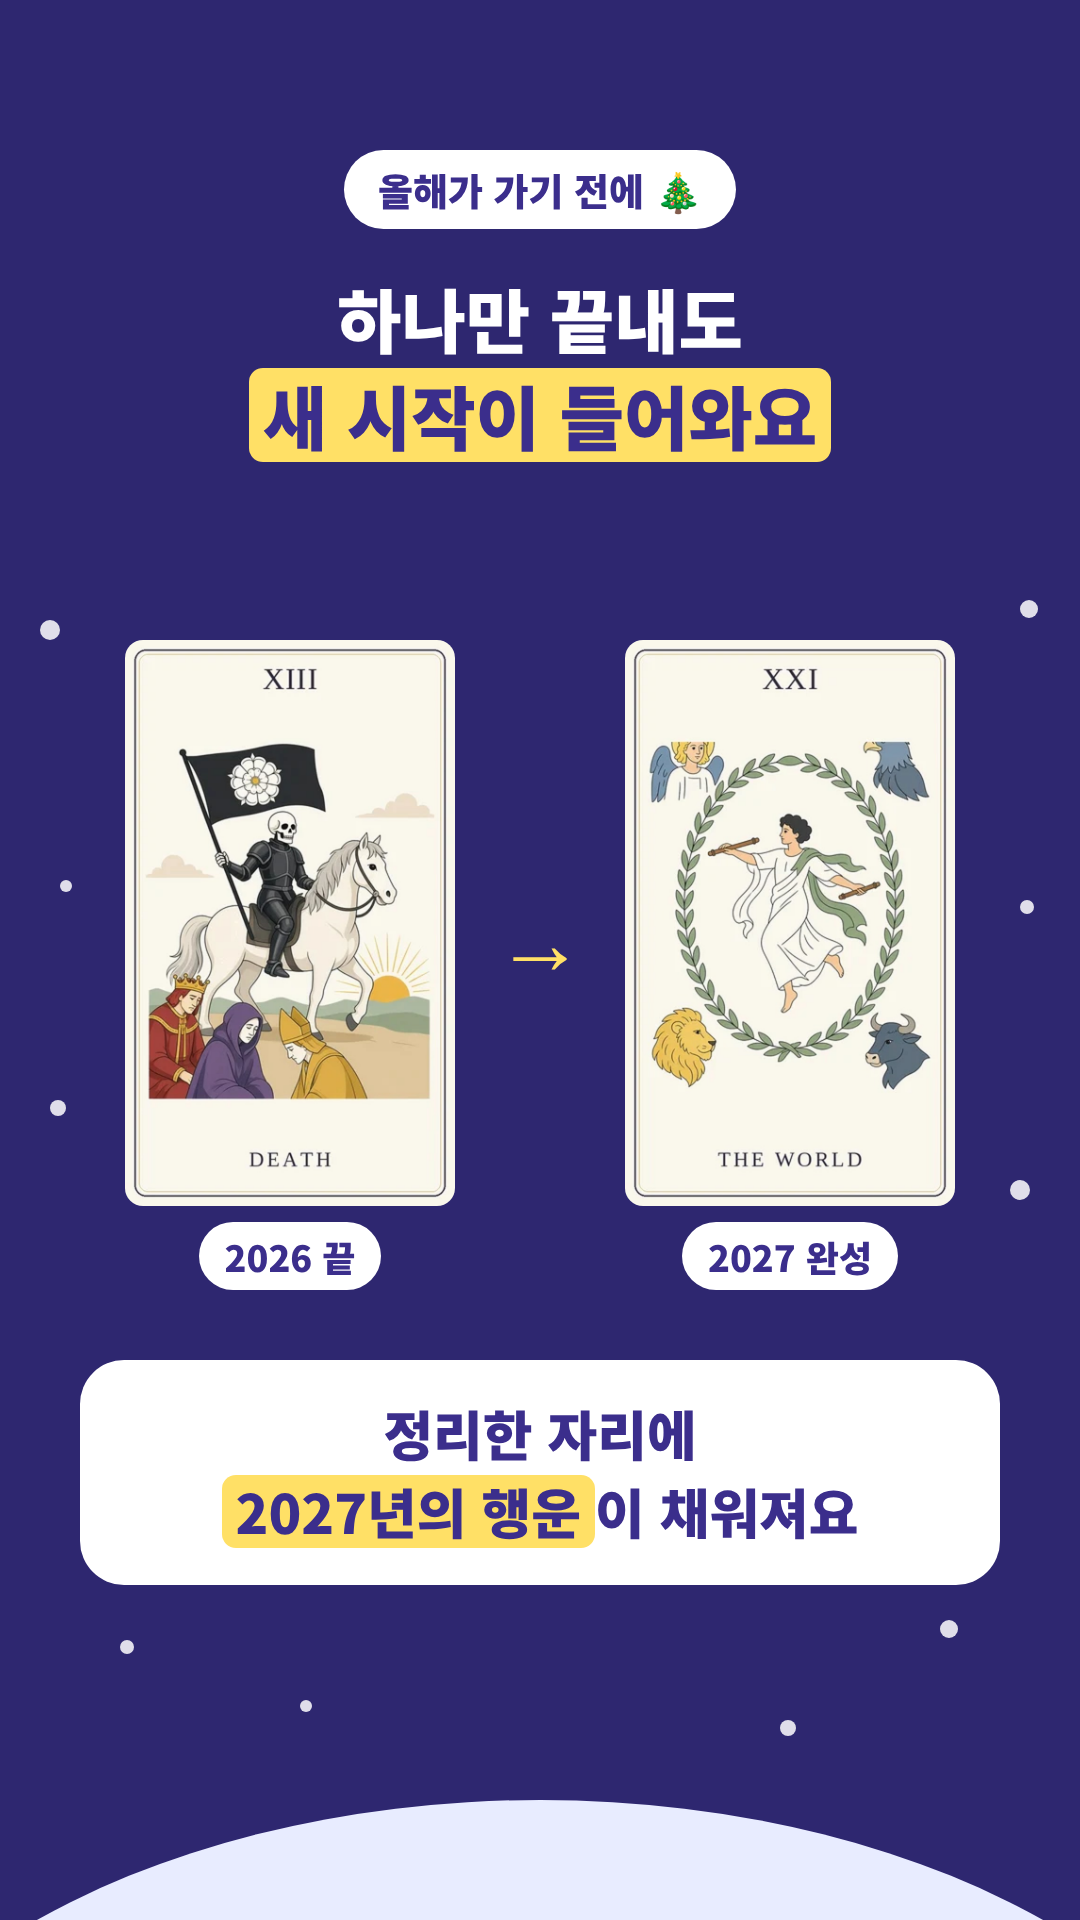
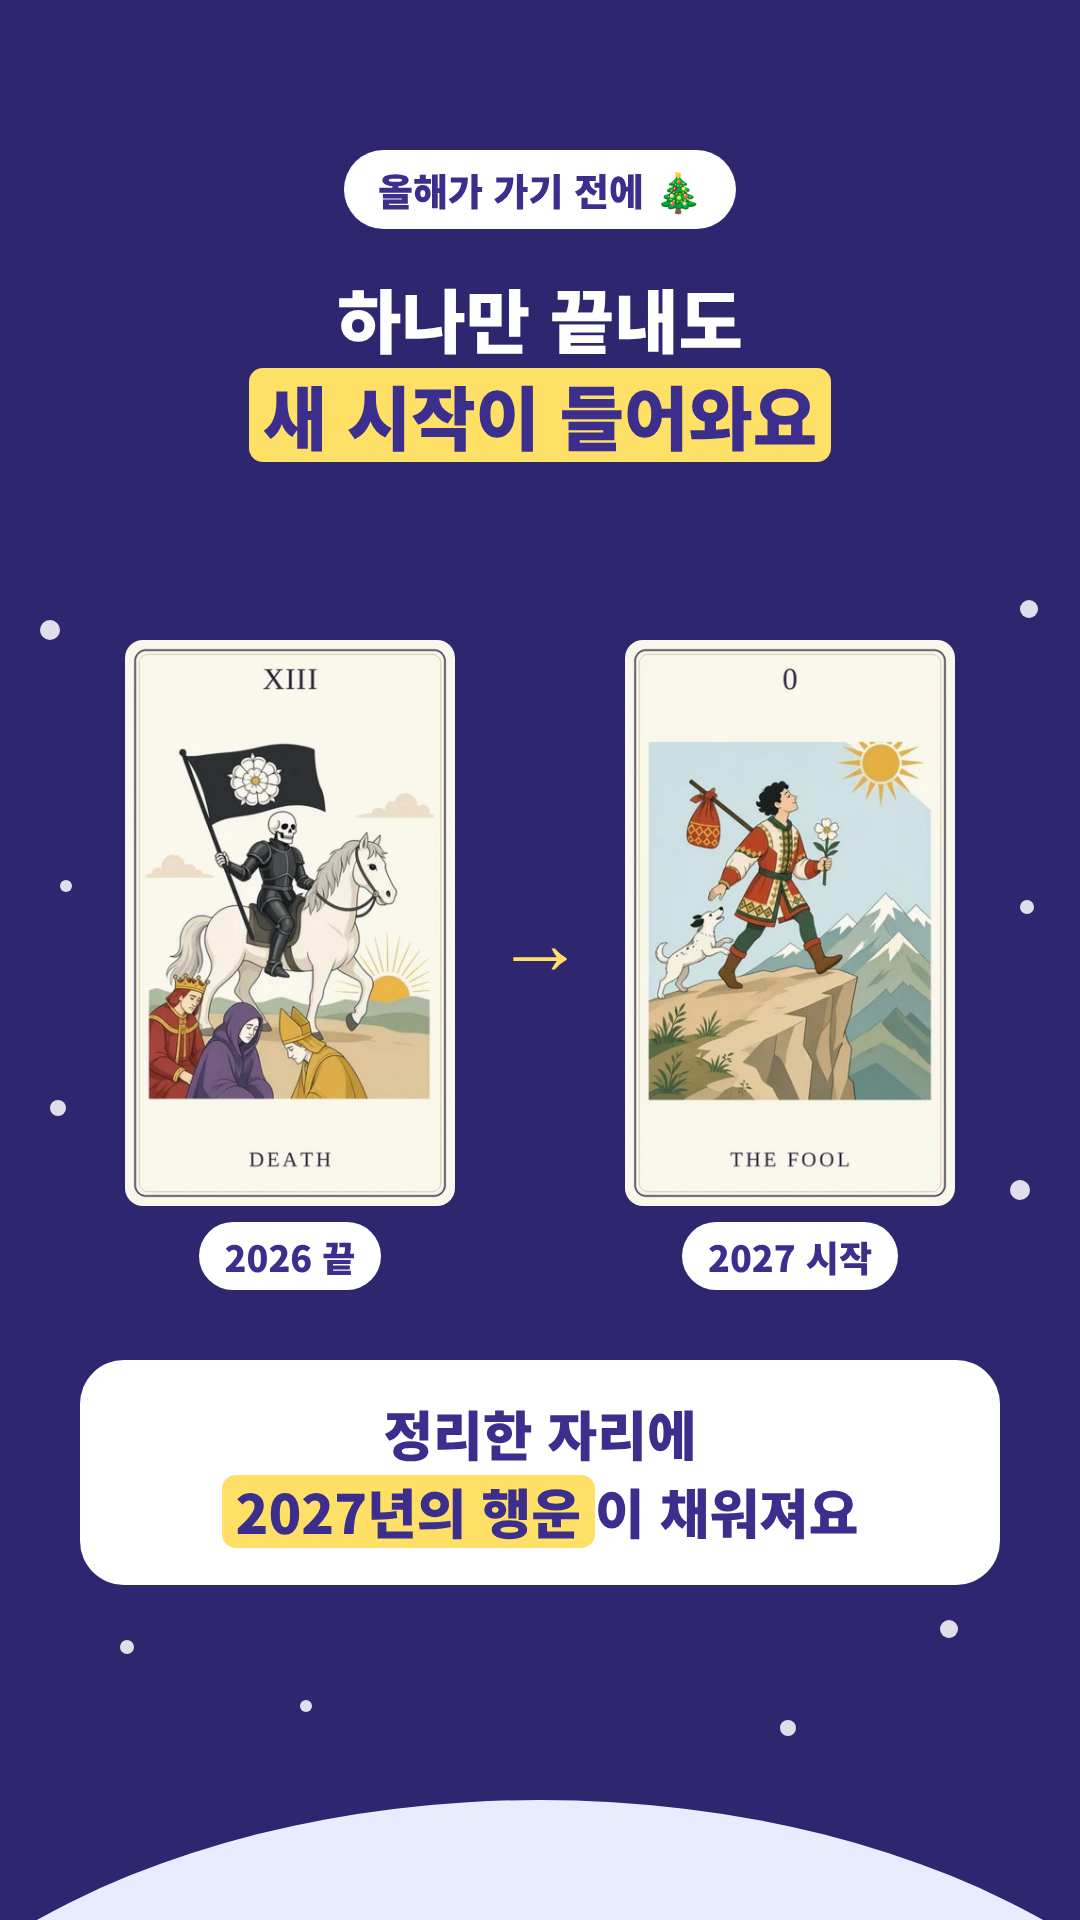
12월 릴스: 마무리 문구를 앱에 맞게, 2027 시작은 바보 카드, 달력 요일 맞춤
Claude-Session: https://claude.ai/code/session_01CejgdC5FKbbZMnpaYgrfgJ

Changed region(s): [[0.5806, 0.3438, 0.8861, 0.625], [0.7639, 0.6562, 0.7944, 0.6875]]

diff --git a/promo/src/reel_dec_01_hook.html b/promo/src/reel_dec_01_hook.html
@@ -10,12 +10,13 @@
 .cn{text-align:center;font-size:200px;line-height:1;font-weight:900;color:var(--ink);margin-top:20px}
 .cg{display:grid;grid-template-columns:repeat(7,1fr);gap:10px;padding:24px 34px 36px}
 .cg i{display:block;aspect-ratio:1;border-radius:10px;background:#E8ECFF}
-.cg i.e{background:#F06292}.tt{top:270px}.cal{top:640px}
+.cg i.e{background:#F06292}
+.cg i.b{background:none}.tt{top:270px}.cal{top:640px}
 .warn{position:absolute;top:1430px;left:0;right:0;text-align:center;font-size:52px;font-weight:900;color:#FFE066}</style></head><body>
 <div class="f nt" id="frame">
   <span class="series">올해가 가기 전에 🎄</span>
  <p class="tt">이걸 안 끝내고 새해 맞으면<br><span class="mk">2027년에도 반복</span>돼요</p>
-  <div class="cal"><div class="ct">2026</div><div class="cn">12</div><div class="cg"><i></i><i></i><i></i><i></i><i></i><i></i><i></i><i></i><i></i><i></i><i></i><i></i><i></i><i></i><i></i><i></i><i></i><i></i><i></i><i></i><i></i><i></i><i></i><i></i><i></i><i></i><i></i><i></i><i></i><i></i><i class="e"></i></div></div>
+  <div class="cal"><div class="ct">2026</div><div class="cn">12</div><div class="cg"><i class="b"></i><i class="b"></i><i></i><i></i><i></i><i></i><i></i><i></i><i></i><i></i><i></i><i></i><i></i><i></i><i></i><i></i><i></i><i></i><i></i><i></i><i></i><i></i><i></i><i></i><i></i><i></i><i></i><i></i><i></i><i></i><i></i><i></i><i class="e"></i></div></div>
   <p class="warn">올해가 가기 전에 꼭 확인하세요 ⏳</p>
   <div class="mound" style="background:#E8ECFF"></div>
 </div>

diff --git a/promo/src/reel_dec_04_fix.html b/promo/src/reel_dec_04_fix.html
@@ -12,7 +12,7 @@
 <div class="f nt" id="frame">
   <span class="series">올해가 가기 전에 🎄</span>
  <p class="tt">하나만 끝내도<br><span class="mk">새 시작이 들어와요</span></p>
-  <div class="pair"><span><img class="tcard" src="cards/tr13@2x.jpg" alt="죽음"><b>2026 끝</b></span><em>→</em><span><img class="tcard" src="cards/tr21@2x.jpg" alt="세계"><b>2027 완성</b></span></div>
+  <div class="pair"><span><img class="tcard" src="cards/tr13@2x.jpg" alt="죽음"><b>2026 끝</b></span><em>→</em><span><img class="tcard" src="cards/tr0@2x.jpg" alt="바보"><b>2027 시작</b></span></div>
   <div class="box" style="top:1360px">정리한 자리에<br><span class="mk">2027년의 행운</span>이 채워져요</div>
   <div class="mound" style="background:#E8ECFF"></div>
 </div>

diff --git a/promo/src/reel_dec_05_end.html b/promo/src/reel_dec_05_end.html
@@ -15,7 +15,7 @@
  <p class="tt">정리할 게<br><span class="mk">떠올랐다면</span></p>
   <div class="cm"><small>댓글로 다짐을 남겨 주세요 👇</small><b>"정리할게요"</b></div>
   <span class="bok">복채는 ❤ 두 번 톡톡</span>
-  <p class="go">2027년 운세는 프로필 링크에서 🔮</p>
+  <p class="go">새해 첫 카드는 프로필 링크에서 무료로 🔮</p>
   <img class="octo" src="../../images/mm01.png" alt="릴멜" style="top:1580px;width:460px;margin-left:-230px">
   <div class="mound" style="background:#E8ECFF"></div>
 </div>
